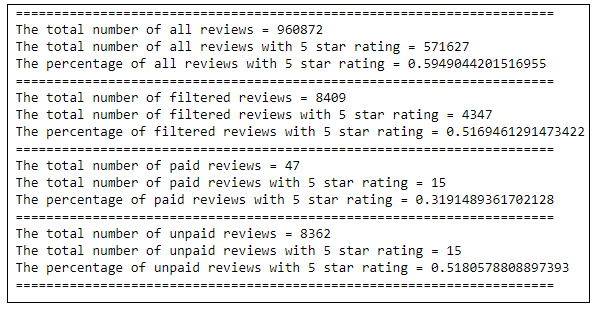
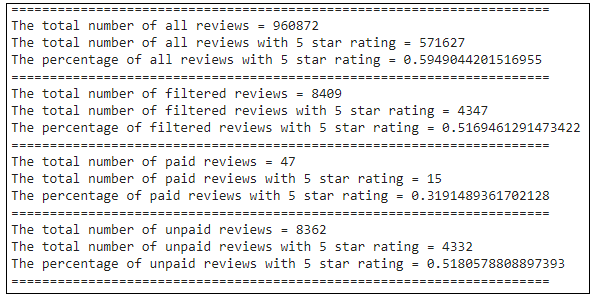
some changes

diff --git a/Test_Module16_BigData/Test_Module16Challenge/Amazon_Vine_Analysis/README.md b/Test_Module16_BigData/Test_Module16Challenge/Amazon_Vine_Analysis/README.md
@@ -6,7 +6,7 @@ I am the first data expert at **BigMarket**, a startup that helps businesses opt
 For this project you'll be partnering with Jennifer, an account manager at BigMarket. SellBy, my client, loves to talk about the power of big data, but Jennifer isn't a data expert. So I start off the project by giving her a quick overview of what big data actually is.
 
 ## Purpose of this Analysis
-As a part of our first assignment, we did a NLP analysis of the review and when the model was tested, it gave a accuracy rate of almost 70%. Selly was impressed.
+As a part of our first assignment, we did a NLP analysis of the review and when the model was tested, it gave a accuracy rate of almost 70%. The client **$ellby** was impressed.
 
 I have now been tasked with another, larger project: analyzing Amazon reviews written by members of the paid Amazon Vine program. The Amazon Vine program is a service that allows manufacturers and publishers to receive reviews for their products. Companies like SellBy pay a small fee to Amazon and provide products to Amazon Vine members, who are then required to publish a review.
 
@@ -42,31 +42,40 @@ In this project, I will have to use PySpark to perform the ETL process to extrac
 
 ## PostgreSQL Query output
 
-1) SQL query - customers
+1) SQL query - customers_table
 
     ![](resources/customers_table_SQL.png)
 
-2) SQL query - customers
+2) SQL query - products_table
 
     ![](resources/products_table_SQL.png)
 
-3) SQL query - customers
+3) SQL query - review_id_table
 
     ![](resources/review_id_table_SQL.png)
 
-4) SQL query - customers
+4) SQL query - vine_table
 
     ![](resources/vine_table_SQL.png)
 
 ## Review Summary
 
-Results: Using bulleted lists and images of DataFrames as support, address the following questions:
-
-How many Vine reviews and non-Vine reviews were there?
-How many Vine reviews were 5 stars? How many non-Vine reviews were 5 stars?
-What percentage of Vine reviews were 5 stars? What percentage of non-Vine reviews were 5 stars?
-
 ![](resources/review_summary.png)
+
+### Answers to the Challenge questions
+
+### Question 1: How many Vine reviews and non-Vine reviews were there?
+* Total number of Vine reviews: 47
+* Total number of non-Vine reviews: 8362
+
+### Question 2: How many Vine reviews were 5 stars? How many non-Vine reviews were 5 stars?
+* Vine reviews that were 5 stars - 15
+* non-Vine reviews that were 5 stars - 4332
+
+### Question 3: What percentage of Vine reviews were 5 stars? What percentage of non-Vine reviews were 5 stars?
+* Percentage of Vine reviews that were 5 stars: 32%
+* Percentage of non-Vine reviews that were 5 stars: 52%
+
 
 
 Summary: In your summary, state if there is any positivity bias for reviews in the Vine program. Use the results of your analysis to support your statement. Then, provide one additional analysis that you could do with the dataset to support your statement.
